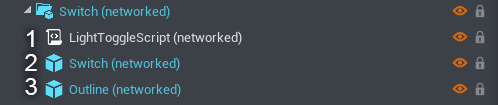
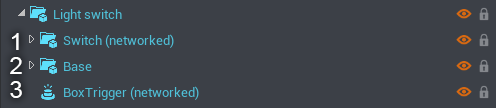
Lightbulb tutorial middle-end update
More going through steps to update the photos & descriptions to current practices.

diff --git a/src/tutorials/gameplay/lua_basics_lightbulb.md b/src/tutorials/gameplay/lua_basics_lightbulb.md
@@ -319,36 +319,37 @@ We want the player to be able to flip the switch to turn on and off our light. T
 
     !["LightBulb1"](../../img/LightBulb/image20.png "Trigger over Switch"){: .center}
 
-    This looks like a good size.
+    This size will work fine for this purpose.
 
-4. Look at the properties of the trigger by selecting it within the Hierarchy. Under "**Gameplay**" there is a parameter called "**Interactable**," check the box next to it to enable it. Otherwise we won't be able to interact with the trigger.
+4. Look at the Properties of the trigger by selecting it within the Hierarchy. Under the "**Gameplay**" section there is an option called "**Interactable**." Check the box next to it to enable it.
+
+    This way, it will ask us if we want to interact with it in-game, and a player must press a button to cause the interaction. If the **Interactable** option is off, then the player walking into the trigger will cause the interaction to happen instantly rather than at a button press.
 
     !["LightBulb1"](../../img/LightBulb/image17.png "Interactable"){: .center}
 
-5. Drag the trigger into the **Light switch group**. It should be the 4th child in the group. Since we'll be referencing the trigger in our script, make sure it's marked as networked. Right click on the trigger and select "**Enable Networking**".
+5. Now that we know what a trigger is and where it is set up, we can get back to our script. We need to tell the script what our trigger is and what should happen when the player interacts with it.
 
-    Our hierarchy should now look like this:
+    So now, under our `switch` variable but above our `RotateTo()` function, add this line of code:
 
-    !["LightBulb1"](../../img/LightBulb/step_3_point_5.png "Light Switch Group"){: .center}
-
-6. Now we need to tell the script what our trigger is and what should happen when the player interacts with it. Under our `switch` variable definition type:
-
-    `local switchTrigger = script.parent:GetChildren()[4]`
+    ```lua
+    local switchTrigger = switch.parent:GetChildren()[3]
+    ```
 
     * `switchTrigger` is the name for our trigger variable.
-    * `script.parent:GetChildren()[4]` defines the object we are using as our trigger - the fourth child of the script's parent group.
+    * `script.parent:GetChildren()[3]` defines the object we are using as our trigger - the third child of the switch's parent group.
+
+    !["LightBulb1"](../../img/LightBulb/step_3_point_1.png "Interactable"){: .center}
 
     Your script should look like this:
 
-    ```lua hl_lines="3"
-    local switch = script.parent:GetChildren()[2]
-    local startingRotation = switch:GetWorldRotation()
-    local switchTrigger = script.parent:GetChildren()[4]
+    ```lua
+    local switch = script.parent
+    local switchTrigger = switch.parent:GetChildren()[3]
 
-    switch:RotateTo(startingRotation + Rotation.New(0, 90, 0), 2)
+    switch:RotateTo(Rotation.New(0, 90, 0), 2,true)
     ```
 
-7. Now that the script knows which object we are using as a trigger we need to define what happens when we interact with the trigger.
+6. Now that the script knows which object we are using as a trigger, we need to define what happens when we interact with the trigger.
 
     After your rotation statement, type:
 
@@ -366,22 +367,23 @@ We want the player to be able to flip the switch to turn on and off our light. T
 
     Eventually we want the switch to flip up and down when the player interacts with it, turning the light on and off. For now we'll just place our rotate statement inside it, which is just the switch turning down.
 
-8. Cut and paste the rotation statement from line 5 into our `onInteraction` function.
+7. Cut and paste the rotation statement from line 5 into our `onInteraction` function.
     It should now look like this:
 
-    ```lua hl_lines="6"
-    local switch = script.parent:GetChildren()[2]
-    local startingRotation = switch:GetWorldRotation()
-    local switchTrigger = script.parent:GetChildren()[4]
+    ```lua
+    local switch = script.parent
+    local switchTrigger = switch.parent:GetChildren()[3]
 
     local function OnSwitchInteraction()
-        switch:RotateTo(startingRotation + Rotation.New(0, 90, 0), 2)
+    switch:RotateTo(Rotation.New(0, 90, 0), 2,true)
     end
     ```
 
-9. Lastly, you'll need an event statement that tells the script to execute the `OnSwitchInteraction` function when the player interacts with the trigger. At the end of your script type:
+8. Lastly, you'll need an event statement that tells the script to actually do the `OnSwitchInteraction` function when the player interacts with the trigger. At the end of your script type:
 
-    `switchTrigger.interactedEvent:Connect(OnSwitchInteraction)`
+    ```lua
+    switchTrigger.interactedEvent:Connect(OnSwitchInteraction)
+    ```
 
     * `switchTrigger` is the name of our trigger.
     * `interactedEvent:Connect()` tells the script every time the player interacts with trigger to execute the function passed to the `Connect()` function.
@@ -392,8 +394,7 @@ We want the player to be able to flip the switch to turn on and off our light. T
     Our script should now look like this:
 
     ```lua hl_lines="9"
-    local switch = script.parent:GetChildren()[2]
-    local startingRotation = switch:GetWorldRotation()
+    local switch = script.parent
     local switchTrigger = script.parent:GetChildren()[4]
 
     local function OnSwitchInteraction()
@@ -404,20 +405,20 @@ We want the player to be able to flip the switch to turn on and off our light. T
     switchTrigger.interactedEvent:Connect(OnSwitchInteraction)
     ```
 
-10. Press **Play** and see if our trigger is working properly.
+9. Press **Play** and see if our trigger is working properly.
 
     Perfect! When the player presses <kbd>F</kbd> to interact with the trigger, our switch rotates up!
 
-11. Let's speed up the switch's rotation animation now that we have the rotation and trigger working. Change the `2` in the `RotateTo` statement to `0.5`. Now the switch will complete its rotation in 0.5 seconds.
+10. Let's speed up the switch's rotation animation now that we have the rotation and trigger working. Change the `2` in the `RotateTo` statement to `0.5`. Now the switch will complete its rotation in 0.5 seconds.
 
     `switch:RotateTo(startingRotation + Rotation.New(0, 90, 0), 0.5)`
-<!-- markdownlint-disable -->
+
     !!! info "Best Practices: Organizing your code"
         It is important to keep your code organized so it is easily read and understood. You might come back to your project after not working on it for a while, or you might be collaborating with other people; in both cases it is nice to have an explanation of what your functions do. It can also make finding specific functions in your script easier.
 
-        Programmers use comments to define and explain certain parts of their code. See the example below for how you might comment on our current script.
+    Programmers use comments to define and explain certain parts of their code. See the example below for how you might comment on our current script.
 
-        ```lua hl_lines="7"
+    ```lua hl_lines="7"
         local switch = script.parent:GetChildren()[2]
         local startingRotation = switch:GetWorldRotation()
         local switchTrigger = script.parent:GetChildren()[4]
@@ -429,12 +430,12 @@ We want the player to be able to flip the switch to turn on and off our light. T
 
         -- Connect our event to the trigger
         switchTrigger.interactedEvent:Connect(OnSwitchInteraction)
-        ```
+    ```
 
         At Core, we have our own set of coding conventions which you can read about [here](lua_style_guide.md).
 
         As our script gets longer, these practices will make our script easier to read and edit.
-<!-- markdownlint-restore -->
+
 ### Spawning a Light
 
 1. Let's make our light switch a little more functional and have it spawn a light when we interact with the switch.
